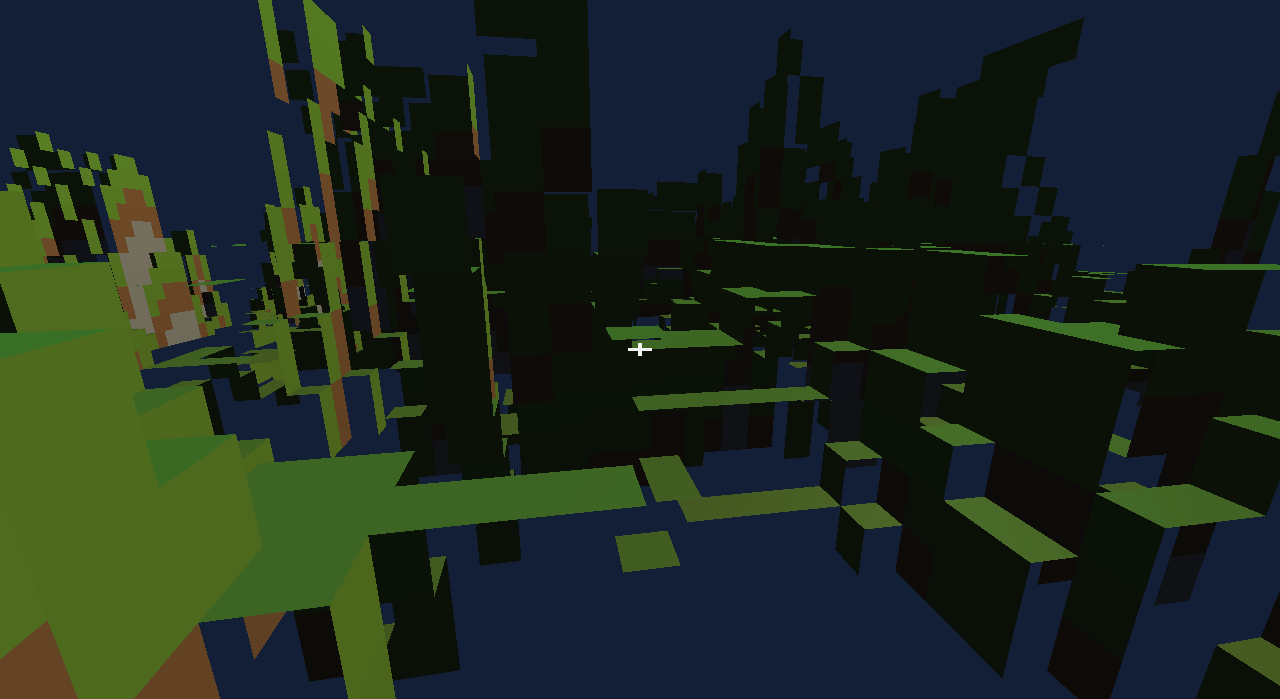
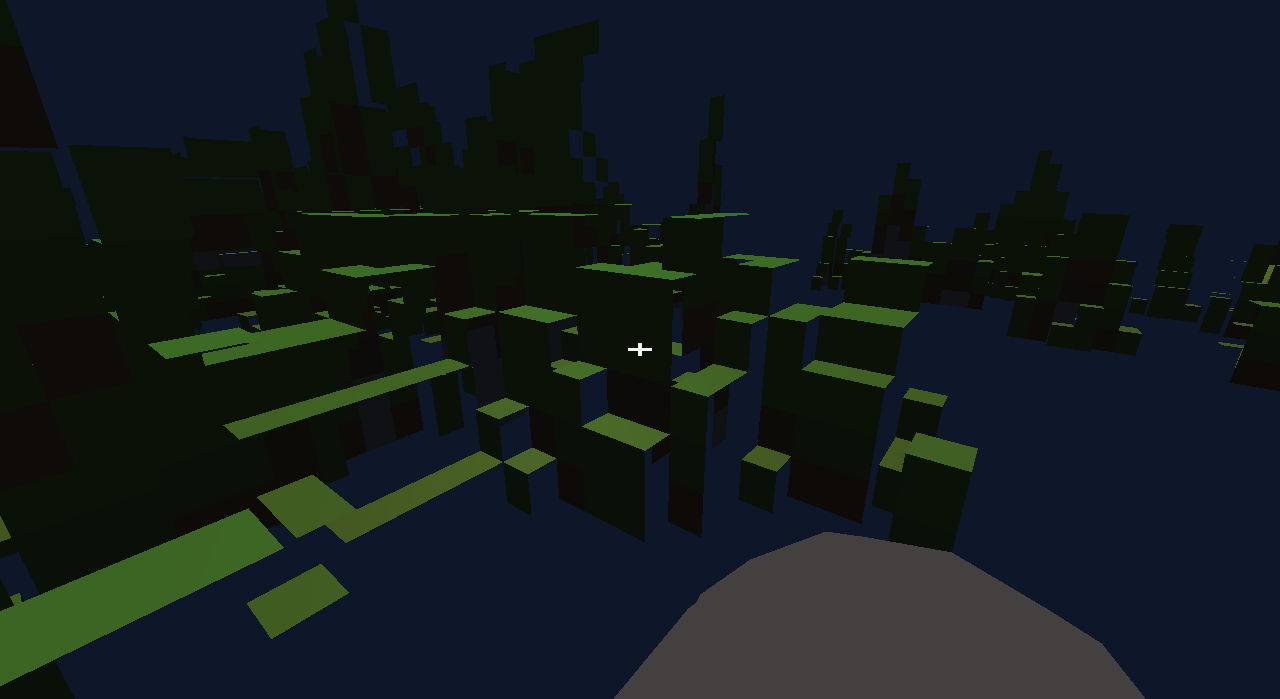
fix(camera): snap origin stays fixed on planet in Orbital frame
Gemini 3.1 Pro: camera_snap_origin_ was updated to camera position
when drift >500m (line 676). In Orbital/Solar frame, this meant the
snap origin FOLLOWED the camera, making terrain appear to fly with
the player. Mesh vertices are offsets from snap_origin, so when it
moves with the camera, the terrain moves too.

Fix: Only update snap_origin in CoordinateFrame::Planet (line 671).
Removed orbital-frame origin update that shifted origin to planet's
solar position (lines 1009-1029).

Agent: Gemini 3.1 Pro (High) via agy

diff --git a/src/engine/engine.cpp b/src/engine/engine.cpp
@@ -671,7 +671,7 @@ void Engine::tick(double frame_dt,
   // Snap origin drifts when the camera moves >500 m from the current
   // origin.  When updated, all chunk meshes must be rebuilt so vertices
   // stay within float32 precision range (±500 m → sub-mm precision).
-  {
+  if (active_frame_ == CoordinateFrame::Planet) {
     const glm::dvec3 cam_pos = glm::dvec3(camera.transform.position);
     const double drift = glm::distance(cam_pos, camera_snap_origin_);
     if (drift > 500.0) {
@@ -1009,29 +1009,7 @@ void Engine::tick(double frame_dt,
       }
     }
 
-    // ── Camera-relative origin update for frame transitions ───────────
-    // When in Orbital frame, the camera-relative origin should include
-    // the planet's orbital position so that the voxel terrain (which is
-    // at planet centre 0,0,0 in Planet frame) appears at the correct
-    // location relative to the sun and other celestial bodies.
-    // In Planet frame, the origin stays at the player's world position
-    // as before (planet centre is at 0,0,0).
-    if (active_frame_ == CoordinateFrame::Orbital ||
-        active_frame_ == CoordinateFrame::Solar) {
-      // Transform the player/vehicle world position to Solar frame.
-      // The snap origin becomes the difference needed to bring
-      // planet-frame coordinates into solar-frame coordinates.
-      // Planet centre at (0,0,0) in Planet frame → planet orbital pos
-      // in Solar frame.
-      const glm::dvec3 planet_orbit = solar_system_.body_position(1);
-      // Adjust so planet surface coords are centered on the planet body.
-      const glm::dvec3 new_origin = planet_orbit;
-      const double drift = glm::distance(new_origin, camera_snap_origin_);
-      if (drift > 100.0) {
-        camera_snap_origin_ = new_origin;
-        snap_origin_dirty_ = true;
-      }
-    }
+
   }
 
   // Update sun direction from solar system into atmosphere.
